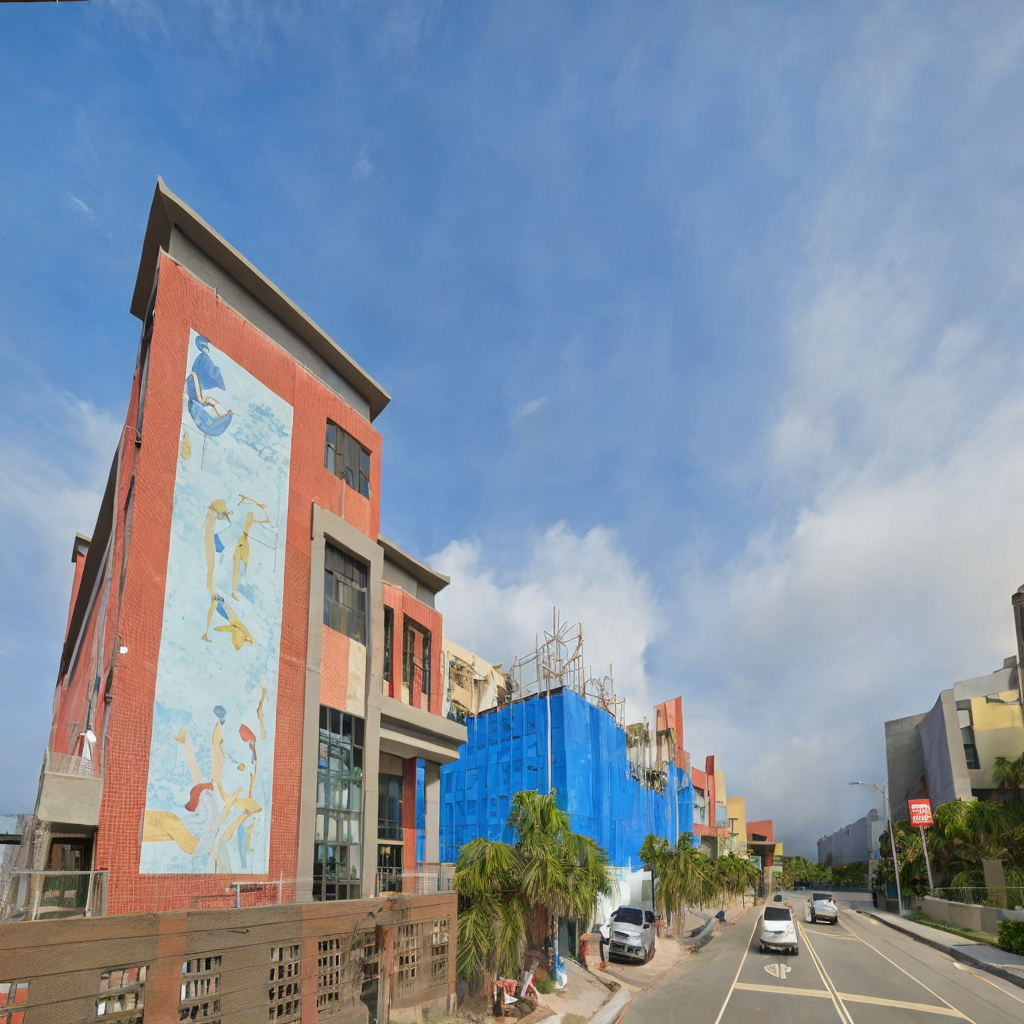
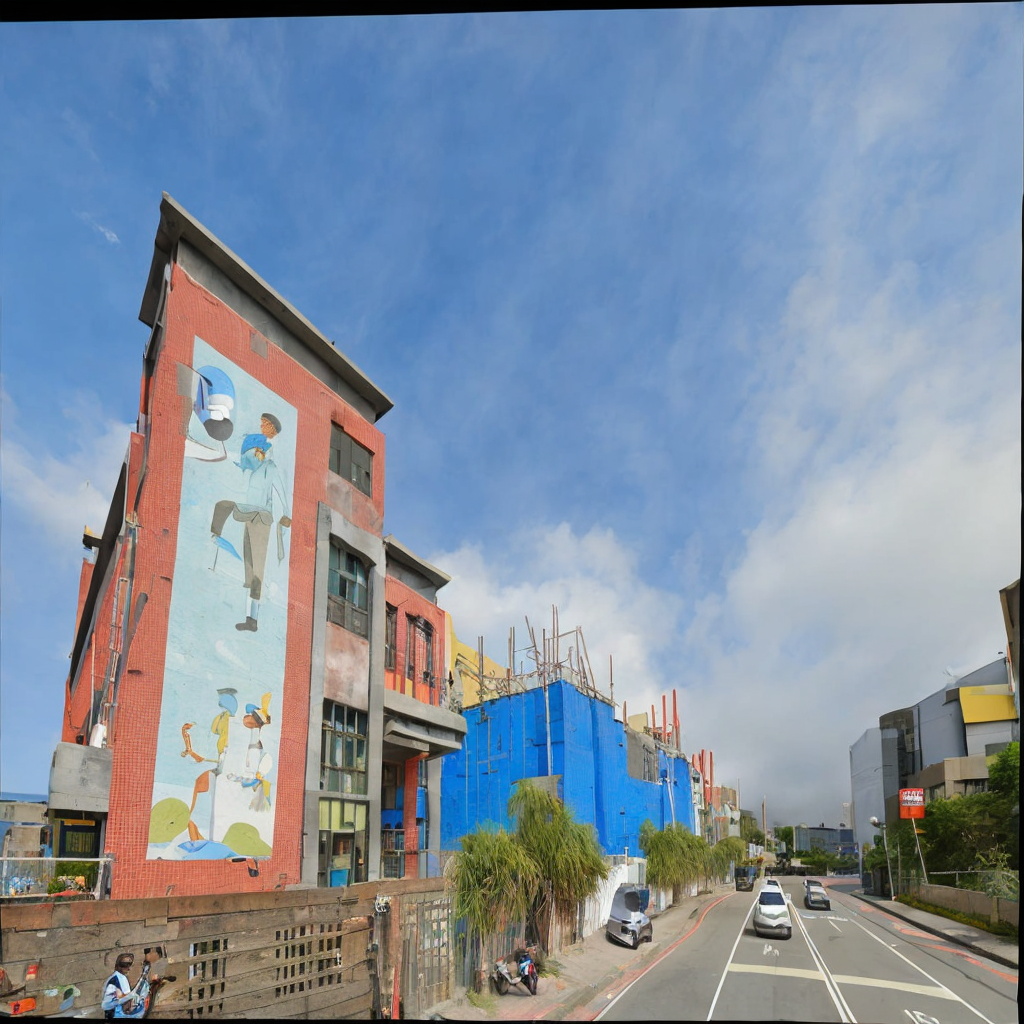
對其2.0

diff --git a/backend/src/v1/alignment.py b/backend/src/v1/alignment.py
@@ -215,25 +215,41 @@ def crop_images(img1_aligned: np.ndarray, img2_ref: np.ndarray):
 
     print(f"裁剪後圖像尺寸: {cropped_aligned.shape}")
     return cropped_aligned, cropped_ref
-def shrink(img):
-    gray = cv2.cvtColor(img, cv2.COLOR_BGR2GRAY)
-    # 二值化：將非黑的地方視為內容
-    _, thresh = cv2.threshold(gray, 10, 255, cv2.THRESH_BINARY)
 
-    # 找出非黑像素的最小邊界
-    coords = cv2.findNonZero(thresh)
-    x, y, w, h = cv2.boundingRect(coords)
+def shrink(image):
+    """
+    在 binary mask 中找出最大純白矩形 (只含 255)，回傳 (x, y, w, h)
+    """
+    gray = cv2.cvtColor(image, cv2.COLOR_BGR2GRAY)
+    _, mask = cv2.threshold(gray, 1, 255, cv2.THRESH_BINARY)
+    cv2.imwrite("mask.png", mask)
+    # 找輪廓
+    contours, _ = cv2.findContours(mask, cv2.RETR_EXTERNAL, cv2.CHAIN_APPROX_SIMPLE)
+    if not contours:
+        raise ValueError("找不到白色區域")
 
-    # 多裁一點邊界（往內縮）
-    shrink = 20  # 可調整：裁掉更多請設更大
-    x_new = min(x + shrink, img.shape[1] - 1)
-    y_new = min(y + shrink, img.shape[0] - 1)
-    w_new = max(w - 2 * shrink, 1)
-    h_new = max(h - 2 * shrink, 1)
+    # 選最大輪廓（可能就是白底）
+    largest_contour = max(contours, key=cv2.contourArea)
 
-    # 裁剪圖片
-    cropped = img[y_new:y_new + h_new, x_new:x_new + w_new]
-    return cropped
+    # 近似成四邊形
+    epsilon = 0.02 * cv2.arcLength(largest_contour, True)
+    approx = cv2.approxPolyDP(largest_contour, epsilon, True)
+
+    if len(approx) != 4:
+        raise ValueError(f"偵測到的角點不是四個，而是 {len(approx)}")
+
+    # 排序四個角點為 top-left, top-right, bottom-right, bottom-left
+    points = approx.reshape(4, 2)
+    #print(f"偵測到的四個角點：{points}")
+    x = []
+    y = []
+    for i in range(4):
+        x.append(points[i][0])
+        y.append(points[i][1])
+    x = sorted(x)
+    y = sorted(y)
+    return image[y[1]:y[3], x[1]:x[3]]  # 裁剪區域
+
 
 
 # 測試
